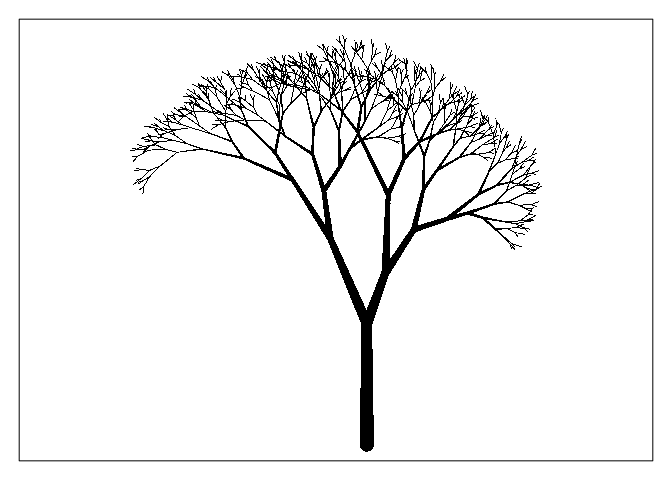
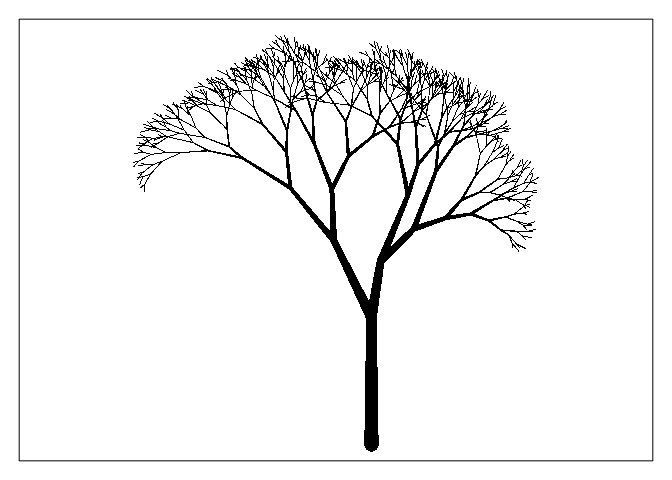
Added some more animation examples

Changed region(s): [[0.1875, 0.0625, 0.8125, 0.9375]]

diff --git a/animated_tree.md b/animated_tree.md
@@ -19,6 +19,14 @@ fractal_tree <- random_tree(splits = 9, children = 2, angle = pi/4, scale_angle 
 
 <img src="animated_tree_files/figure-gfm/unnamed-chunk-2-1.png" style="display: block; margin: auto;" />
 
+``` r
+fractal_tree1 <- random_tree(splits = 9, children = 2, angle = pi/4, sib_lgth_ratio = c(1.5,1), sib_thk_ratio = c(1,1.5), 
+                             angle_scale = 1.05, length_scale = 1.35, plot = F, datadump = T, title = "fractal_tree1")
+fractal_tree2 <- deterministic_tree(splits = 7, trunk_scale = 0.25, angle_scale = 1.25, sib_thk_ratio = c(1,2,1), 
+                                    sib_lgth_ratio = c(1,5,1), plot = F, datadump = T, title = "fractal_tree2")
+fractal_tree3 <- random_tree(splits = 7, sib_lgth_ratio = c(1,2,1), angle = pi/6, plot = F, datadump = T, title = "fractal_tree3")
+```
+
 ## Swaying Tree
 
 Generates a random field to create a GIF animation of a tree “swaying”
@@ -42,7 +50,7 @@ Example:
 
 <center>
 
-<img src="swaying_trees/swaying_tree_2020-12-07_04:11:56_PST.gif">
+<img src="swaying_trees/swaying_tree_2020-12-07_23:24:27_PST.gif">
 
 </center>
 
@@ -77,6 +85,32 @@ Example:
 
 <center>
 
-<img src="growing_trees/growing_tree_2020-12-07_04:12:01_PST.gif">
+<img src="growing_trees/growing_tree_2020-12-07_23:24:32_PST.gif">
+
+</center>
+
+## Additional Examples
+
+<center>
+
+<img src="swaying_trees/swaying_tree_2020-12-07_23:14:52_PST.gif">
+
+</center>
+
+<center>
+
+<img src="growing_trees/growing_tree_2020-12-07_23:15:38_PST.gif">
+
+</center>
+
+<center>
+
+<img src="swaying_trees/swaying_tree_2020-12-07_23:20:40_PST.gif">
+
+</center>
+
+<center>
+
+<img src="growing_trees/growing_tree_2020-12-07_23:21:42_PST.gif">
 
 </center>
